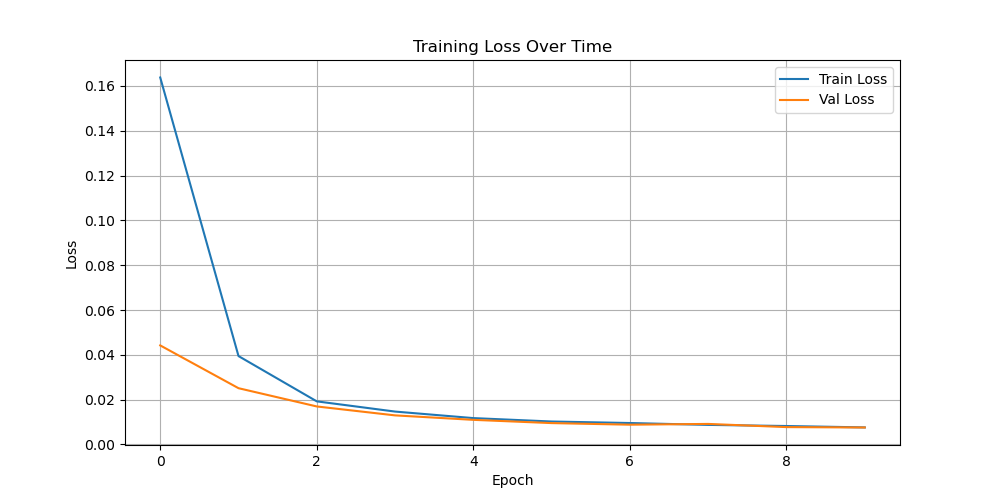
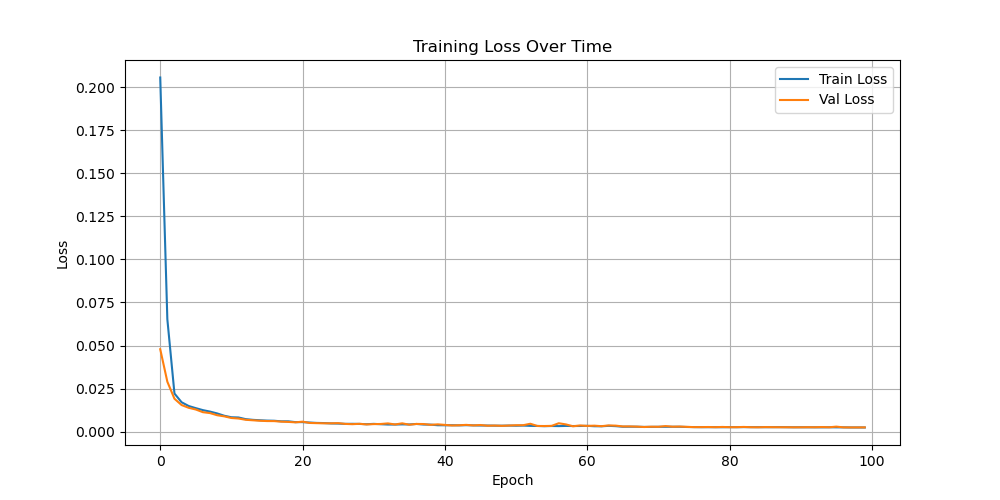
ready for big training the ldm; the auto enc is pretrained

diff --git a/models/config.py b/models/config.py
@@ -4,7 +4,7 @@ config = {
     'learning_rate_factor': 0.5,
     'learning_rate_patience': 5,
     'learning_rate_min': 1e-6,
-    'num_epochs': 10,
+    'num_epochs': 100,
     'batch_size': 64,
     'style_loss_weight': 0.1,
     'latent_dim_encoder': 32,
